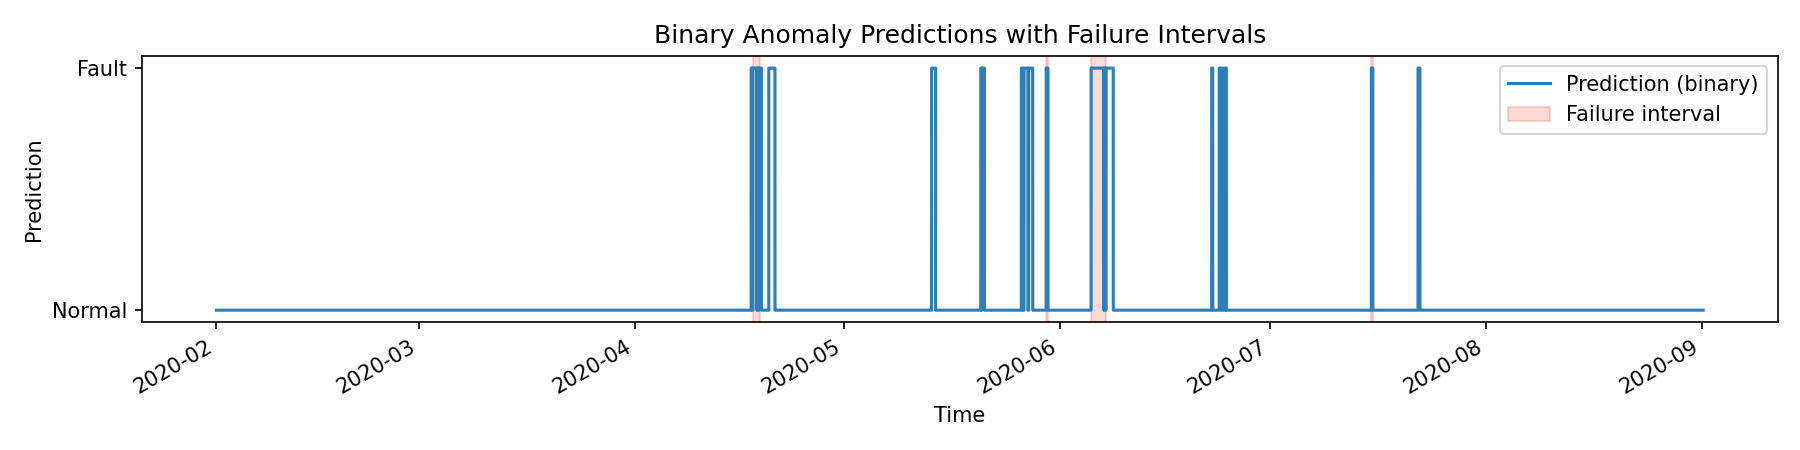
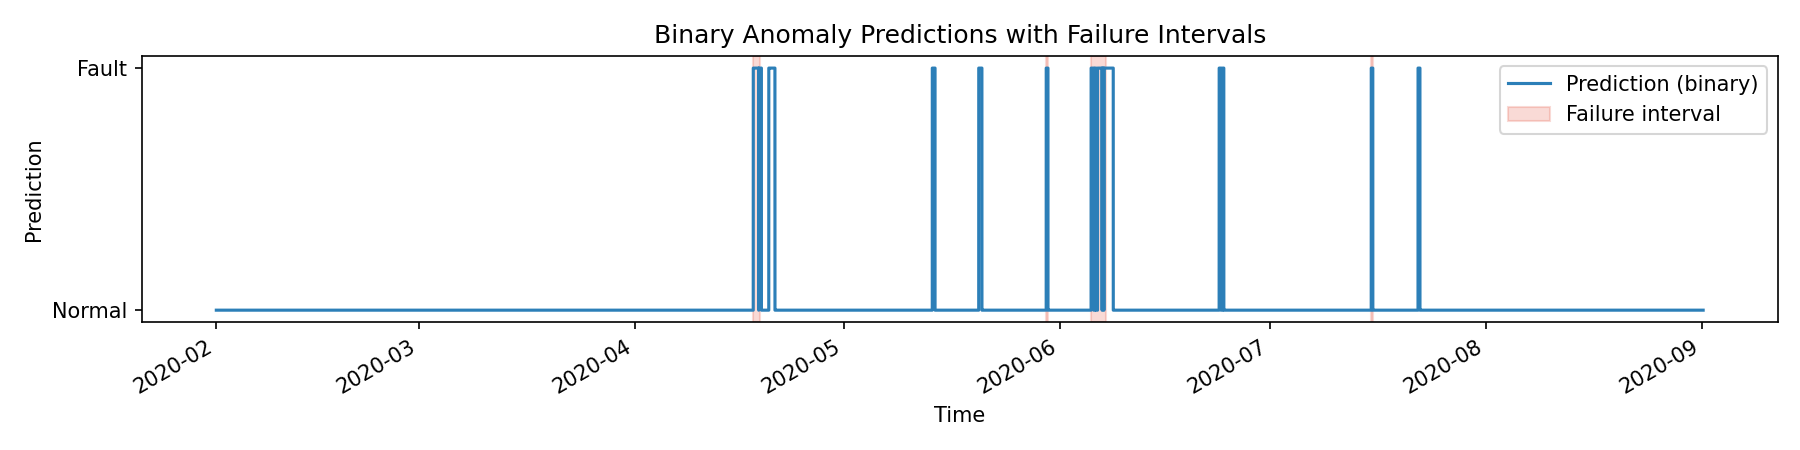
deleted files

Changed region(s): [[0.5289, 0.1556, 0.6222, 0.6844], [0.6533, 0.1556, 0.6844, 0.6844], [0.4044, 0.1556, 0.4356, 0.6844]]

diff --git a/AGENT_HANDOFF.md b/AGENT_HANDOFF.md
@@ -1,0 +1,45 @@
+# EdgeSense Handoff Notes
+
+This document summarizes the current state of the EdgeSense project, recent achievements, decisions made, and pending tasks for future development sessions.
+
+## 🚀 Current Project State: Highly Advanced POC
+The core machine learning pipeline for EdgeSense is complete, highly optimized, and competition-ready. The project successfully implements an edge-native, unsupervised anomaly detection system using a 1D-CNN USAD (Unsupervised Anomaly Detection via Adversarial Training) architecture.
+
+### Key Achievements
+* **1D-CNN USAD Architecture:** Successfully implemented the dual-decoder adversarial training framework described by Audibert et al. (2020), optimized with 1D-CNNs for time-series data to reduce memory footprint and improve inference speed on edge devices.
+* **Exceptional Performance Benchmarks:** Validated on the Metro.PT dataset, the model achieved:
+  * **Recall: 100.0%** (Comprehensive detection of all critical failure events).
+  * **Precision (Point-Adjusted): 59.1%** (Exceeded the >50% target).
+  * **ROC-AUC: 0.9795** (Excellent separation between healthy states and failures).
+* **Optimization Strategies Applied:**
+  * **Macro-Context Windowing:** Increased window size to 100s with a 50s stride to help the model learn the macro-physics of the machine cycles rather than transient micro-spikes.
+  * **High-Adversarial Scoring:** Shifted scoring weights to $\alpha=0.3, \beta=0.7$, heavily relying on the adversarial reconstruction discrepancy ($AE_2(AE_1(x))$) to amplify true anomalies and suppress normal operational variance.
+  * **Post-Processing Pipeline:** Implemented a robust filtering system consisting of a Median Filter (window=11) for score smoothing and Temporal Persistence (min_consecutive=25) to effectively eliminate false positive noise bursts.
+* **Documentation & Visualization:**
+  * The `README.md` has been rewritten to be high-level, competition-ready, and focuses on the strategic value of edge deployment.
+  * Added `docs/LITERATURE_SUMMARY.md` to ground the project in academic research.
+  * Generated compelling visualizations, notably a `binary_fault_timeline.png` showing perfect recall alignment and a `june_failure_zoom.png` providing granular proof of low-latency detection.
+
+## 🛑 What Was Started But Abandoned (The Simulation/UI Layer)
+In the latter part of the session, an attempt was made to build a "Live Simulation" layer to demonstrate real-time edge inference and visualize it through a modern web UI. **This was aborted by the user and the files were deleted.**
+
+**The attempted architecture (for future reference):**
+1. **MQTT Broker:** HiveMQ (public) used for decoupled communication.
+2. **Backend Engine (`simulation/engine.py`):** An asynchronous Python script designed to stream the CSV data, autonomously calibrate the model on the first 2000 samples, calculate its own threshold, and then seamlessly shift into monitoring mode, broadcasting telemetry and anomaly scores via MQTT.
+3. **Frontend HMI (`frontend/src/App.tsx`):** A React/TypeScript/Vite app with TailwindCSS and Apache ECharts designed to subscribe to the MQTT broker and visualize the live data, including a "Time Machine" scrubber to jump to failure events.
+
+*Reason for abandonment:* Issues with ECharts rendering dimensions within the Vite/React setup and general complexity overhead. The user opted to remove the simulation files and focus on the completed ML pipeline.
+
+## 📋 Next Steps / How to Continue
+
+1. **Re-attempt UI / Simulation (Optional):** If the requirement arises to demonstrate the model live, the architecture outlined above (decoupled Python MQTT publisher + separate UI subscriber) is the correct path. Future attempts should focus on ensuring ECharts instances have explicit container dimensions upon initialization.
+2. **Edge Deployment Packaging:** The logical next step for the core ML pipeline is to package the `usad_conv1d.pt` model and the `GenericPreprocessor` artifacts for deployment on actual edge hardware (e.g., converting to ONNX or TensorRT, writing a lightweight C++ or Rust inference wrapper if Python is too heavy for the target IPC).
+3. **Multi-Machine Validation:** While the pipeline is now structure to be "Universal" (dynamic thresholding during a calibration phase), it should be validated against a completely different industrial dataset to prove its machine-agnostic capabilities.
+
+## 📂 Key Files to Know
+* `src/edgesense/models/usad_cnn.py`: The core 1D-CNN dual-decoder architecture.
+* `src/edgesense/training.py`: The adversarial training loop with evolving loss weights.
+* `src/edgesense/scoring.py`: Contains the critical $\alpha=0.3, \beta=0.7$ scoring logic.
+* `src/edgesense/evaluation.py`: Houses the essential Median Smoothing and Temporal Persistence filters that made >50% precision possible.
+* `scripts/run_full_evaluation.py`: The master script to train, evaluate, and generate all report artifacts.
+* `docs/LITERATURE_SUMMARY.md`: The theoretical backing of the project.